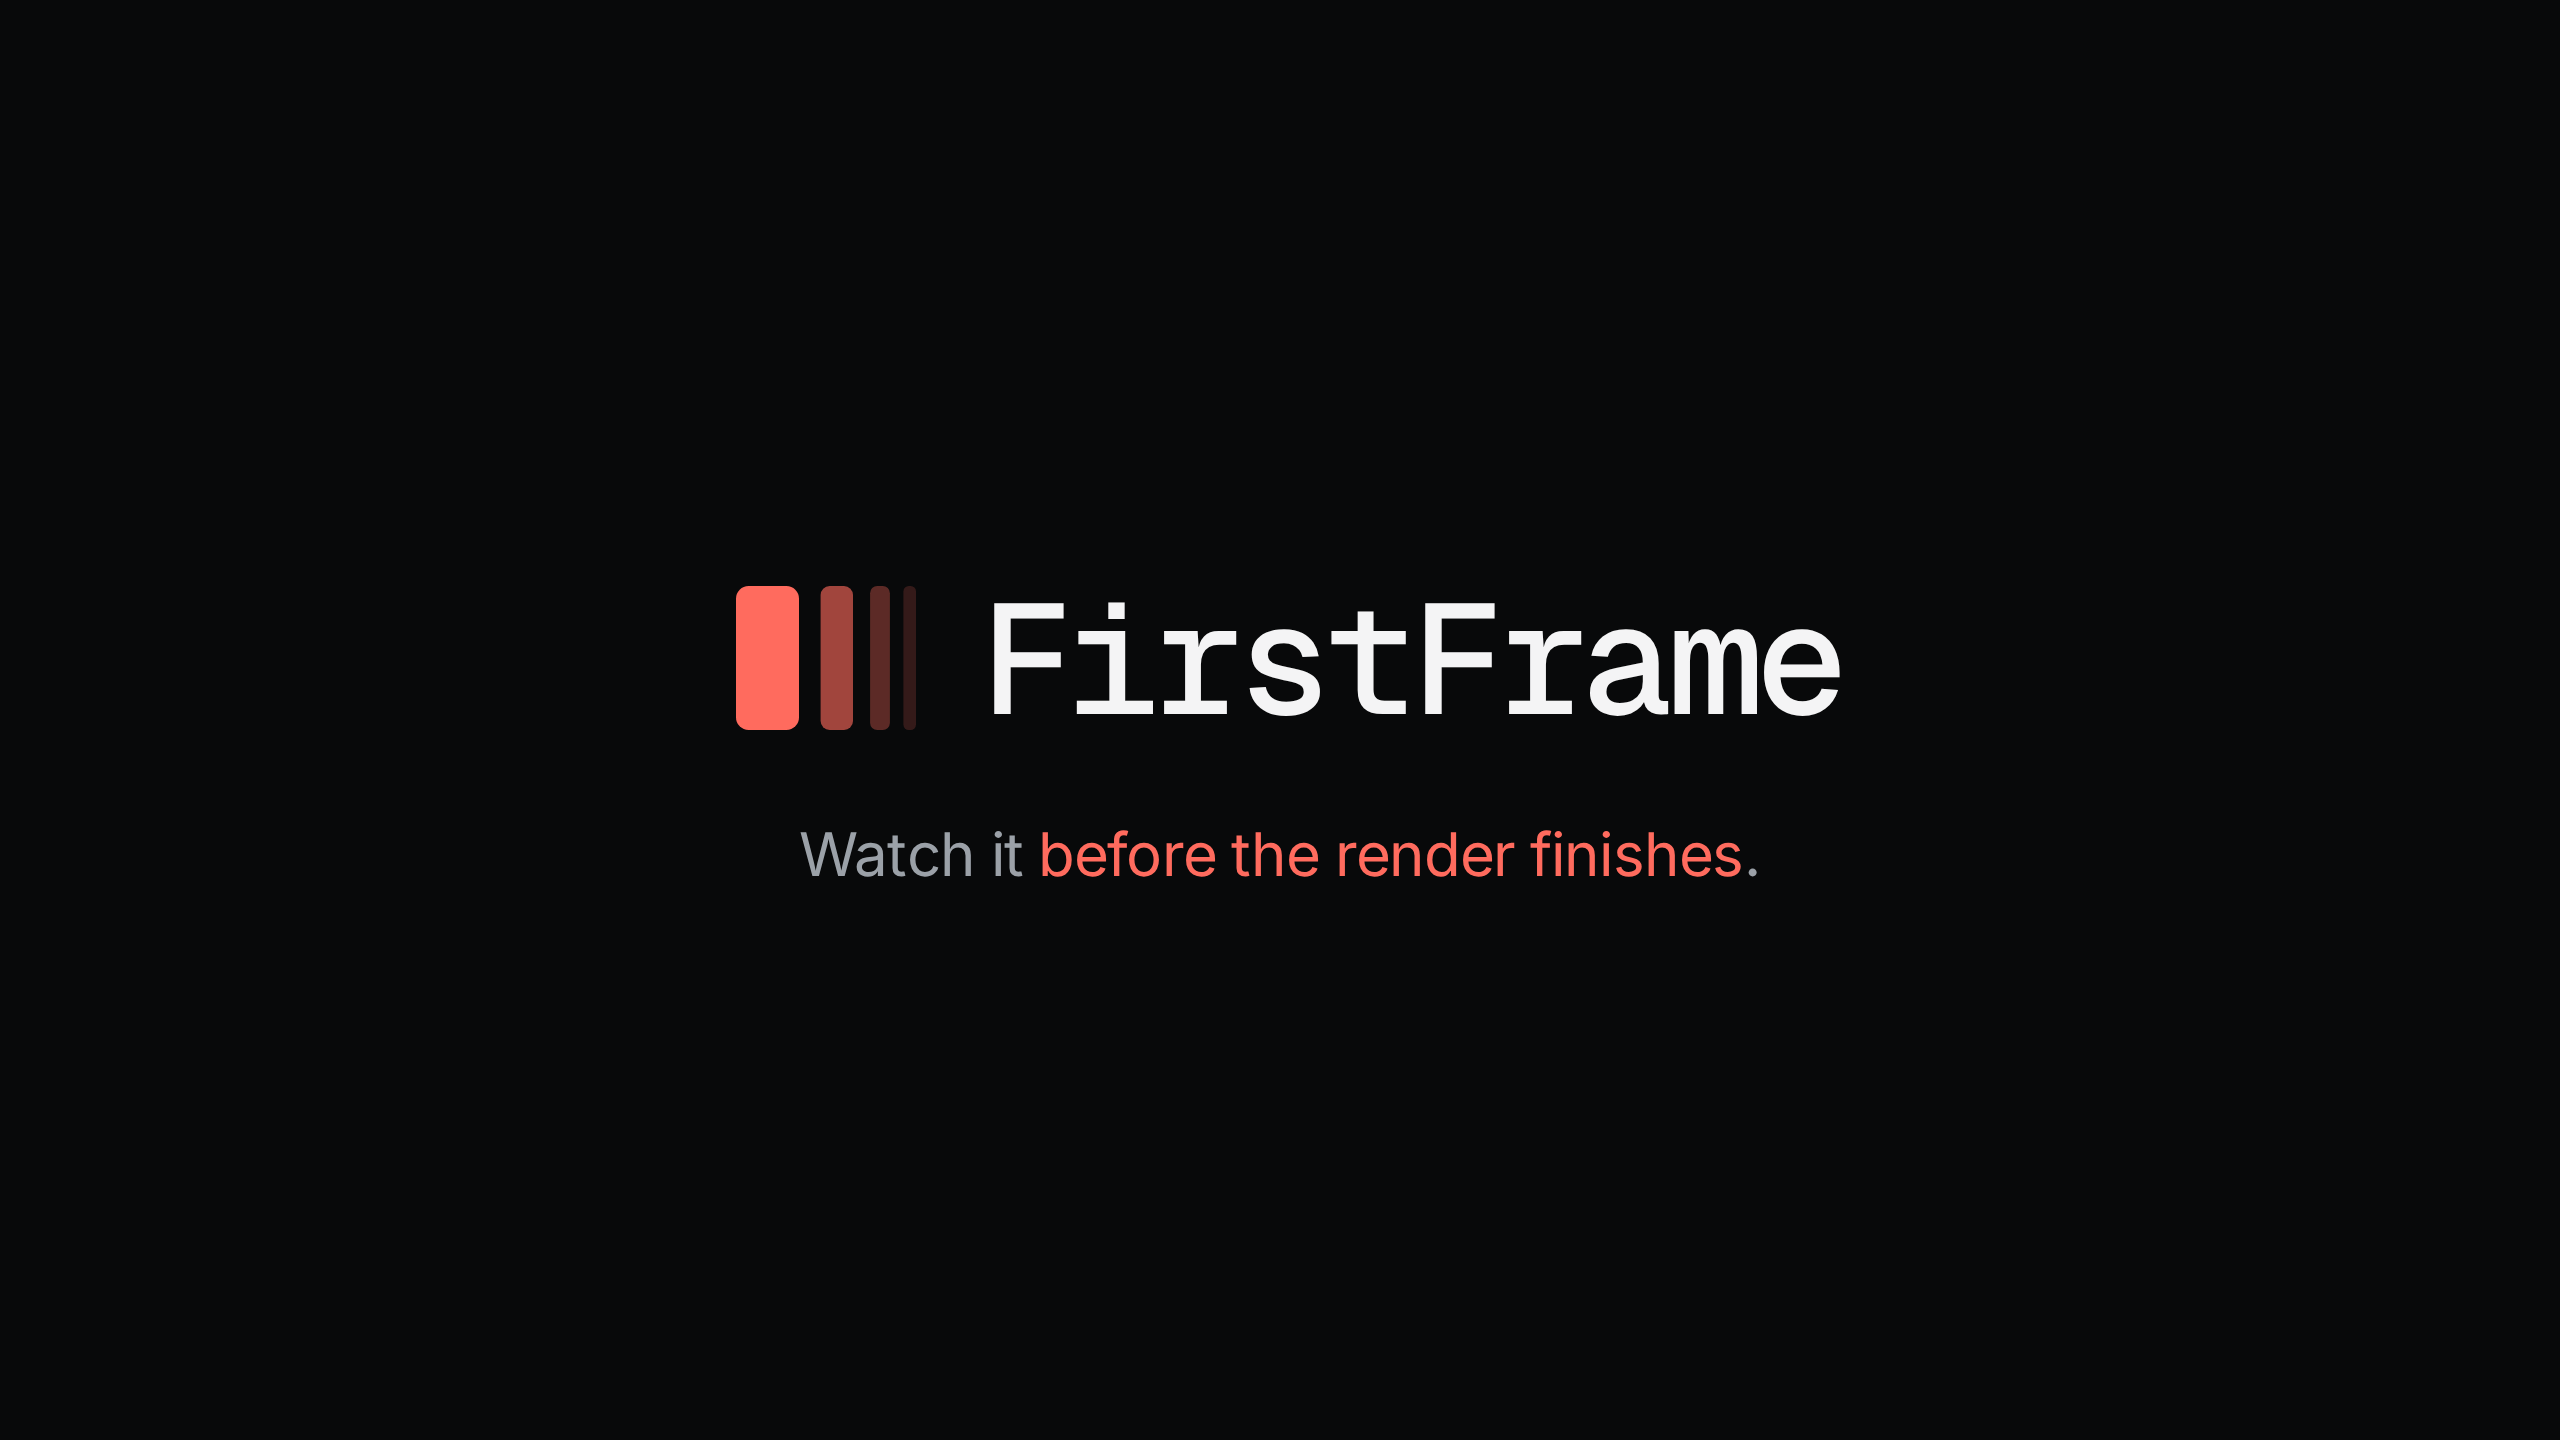
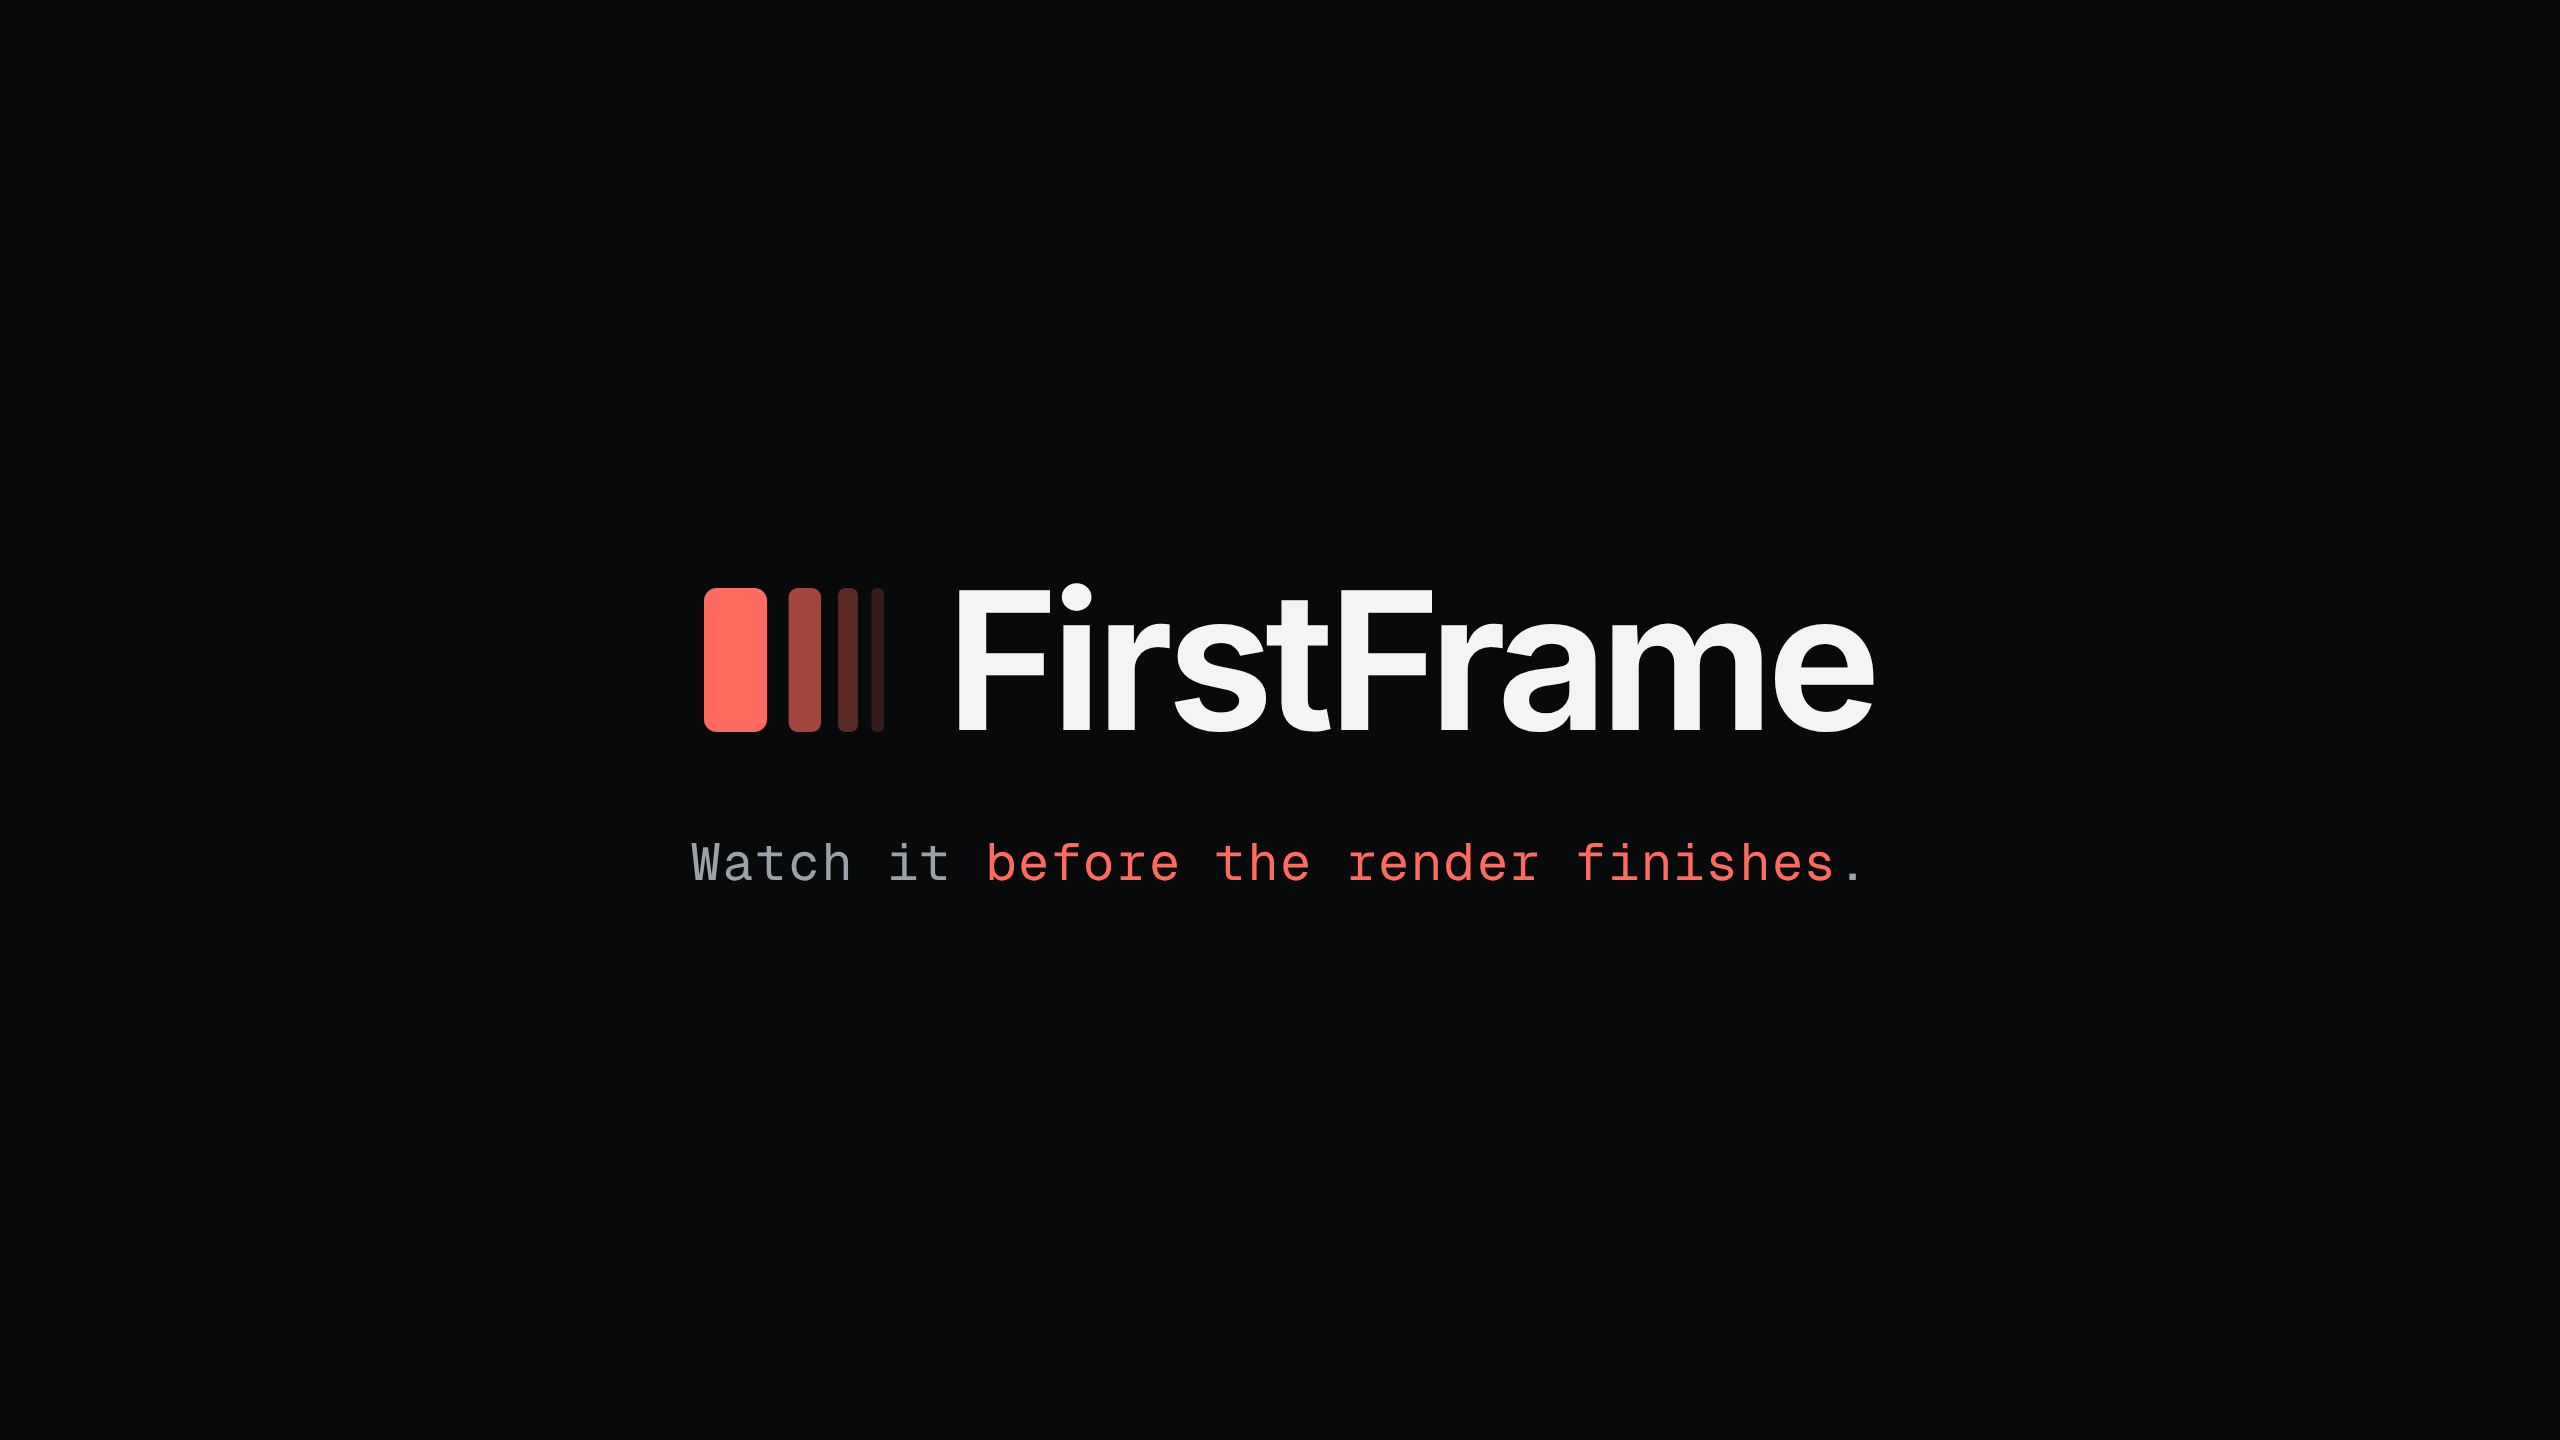
demo: wordmark en sans, subtitulo en monoespaciada

Changed region(s): [[0.25, 0.4062, 0.75, 0.5312], [0.25, 0.5625, 0.7188, 0.625]]

diff --git a/demo/thumb.html b/demo/thumb.html
@@ -7,13 +7,13 @@
   @font-face { font-family:'GeistMono'; src:url('../web/vendor/fonts/geistmono-latin.woff2') format('woff2'); font-weight:100 900; font-display:block; }
   * { margin:0; padding:0; box-sizing:border-box; }
   html,body { width:1280px; height:720px; overflow:hidden; }
-  body { background:#08090a; color:#f4f4f5; font-family:GeistMono, Inter, sans-serif;
+  body { background:#08090a; color:#f4f4f5; font-family:Inter, sans-serif;
          display:flex; flex-direction:column; align-items:center; justify-content:center; text-align:center; }
   .mark { display:flex; align-items:center; gap:22px; }
   .mark svg { width:108px; height:108px; display:block; }
-  .mark span { font-size:78px; font-weight:500; letter-spacing:-.05em; }
-  p { margin-top:26px; font-size:30px; font-weight:400; letter-spacing:-.012em;
-       color:#9ba1a8; font-family:Inter, Inter, sans-serif; }
+  .mark span { font-size:96px; font-weight:650; letter-spacing:-.038em; }
+  p { margin-top:26px; font-size:26px; font-weight:400; letter-spacing:.015em;
+       color:#9ba1a8; font-family:GeistMono, monospace; }
   p em { font-style:normal; color:#ff6b5e; }
 </style>
 <div class="mark">
